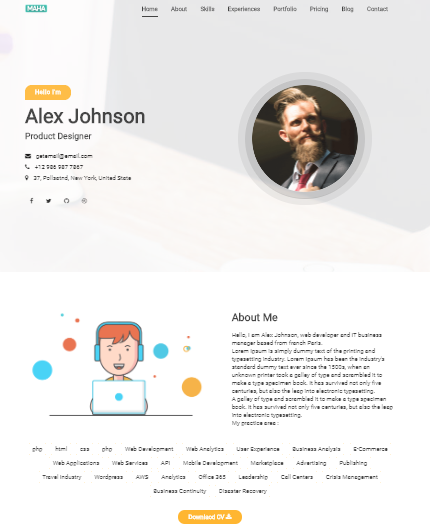
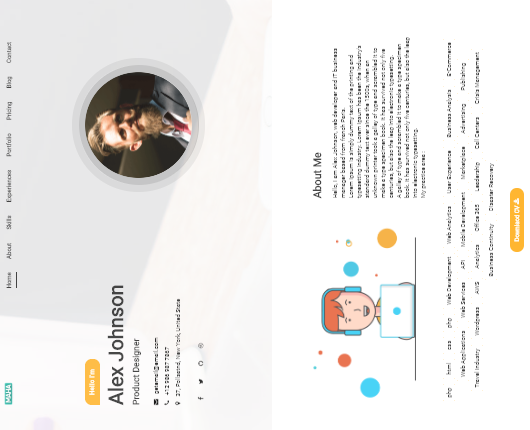
update

diff --git a/index.html b/index.html
@@ -1,40 +1,54 @@
 <!doctype html>
 <html lang="en">
     <head>
-        <title>Neha - Personal CV/Resume Template | Home 1 </title>
-        <!-- Required meta tags -->
-        <meta charset="utf-8">
-        <meta http-equiv="X-UA-Compatible" content="IE=edge">
-        <meta name="description" content="Maha Personal cv/resume template for professional and personal website." />
-        <meta name="keywords" content="creative, cv, designer,  online cv, online resume, powerful portfolio, professional, professional resume, responsive, resume, vcard " />
-        <meta name="developer" content="Md. Siful Islam">
-        <meta name="viewport" content="width=device-width, initial-scale=1, shrink-to-fit=no">
-        
-        <!-- FAV AND ICONS   -->
-        <link rel="shortcut icon" href="images/neha_logo">
-        <link rel="shortcut icon" href="images/neha_logo.png">
-        <link rel="shortcut icon" sizes="72x72" href="images/neha_logo.png">
-        <link rel="shortcut icon" sizes="114x114" href="images/neha_logo.png">
-        
-        <!-- Google Font-->
-        <link href="//fonts.googleapis.com/css?family=Roboto" rel="stylesheet">
-        <!-- Font Awesome -->
-        <link rel="stylesheet" href="assets/icons/font-awesome-4.7.0/css/font-awesome.min.css">
-        <!-- Bootstrap CSS -->
-        <link rel="stylesheet" href="assets/plugins/css/bootstrap.min.css">
-        <!-- Animate CSS-->
-        <link rel="stylesheet" href="assets/plugins/css/animate.css">
-        <!-- Owl Carousel CSS-->
-        <link rel="stylesheet" href="assets/plugins/css/owl.css">
-        <!-- Fancybox-->
-        <link rel="stylesheet" href="assets/plugins/css/jquery.fancybox.min.css">
-        <!-- Custom CSS-->
-        <link rel="stylesheet" href="assets/css/styles.css">
-        <link rel="stylesheet" href="assets/css/responsive.css">
-        <link rel="stylesheet" href="assets/css/style.css">
-        
- 
-    </head>
+    <meta charset="UTF-8">
+    <meta name="viewport" content="width=device-width, initial-scale=1.0">
+
+    <title>Neha Marathe | Full Stack Developer Portfolio</title>
+
+    <meta name="description" content="Neha Marathe is a Full Stack Developer and Information Technology graduate specializing in responsive web development using HTML, CSS, JavaScript, Bootstrap, React, Node.js, Express.js and MongoDB.">    <meta name="keywords" content="Neha Marathe, Full Stack Developer, Web Developer, Frontend Developer, JavaScript Developer, React Developer, Node.js Developer, Portfolio">
+    <meta name="author" content="Neha Marathe">
+    <meta name="robots" content="index, follow">
+
+    <link rel="canonical" href="https://marathenehaa.github.io/my_portfolio/">
+    <link rel="icon" type="image/png" href="images/neha_logo - Copy.png">
+
+    <!-- Open Graph -->
+    <meta property="og:title" content="Neha Marathe | Full Stack Developer">
+    <meta property="og:description" content="Portfolio of Neha Marathe, an aspiring Full Stack Developer specializing in modern and responsive web applications.">
+    <meta property="og:type" content="website">
+    <meta property="og:url" content="https://marathenehaa.github.io/my_portfolio/">
+    <meta property="og:image" content="https://marathenehaa.github.io/my_portfolio/images/neha_logo%20-%20Copy.png">
+
+    <!-- Twitter -->
+    <meta name="twitter:card" content="summary">
+    <meta name="twitter:title" content="Neha Marathe | Full Stack Developer">
+    <meta name="twitter:description" content="Portfolio of Neha Marathe, an aspiring Full Stack Developer.">
+    <meta name="twitter:image" content="https://marathenehaa.github.io/my_portfolio/images/neha_logo%20-%20Copy.png">
+
+    <!-- Google Font -->
+    <link href="https://fonts.googleapis.com/css?family=Roboto" rel="stylesheet">
+
+    <!-- Font Awesome -->
+    <link rel="stylesheet" href="assets/icons/font-awesome-4.7.0/css/font-awesome.min.css">
+
+    <!-- Bootstrap -->
+    <link rel="stylesheet" href="assets/plugins/css/bootstrap.min.css">
+
+    <!-- Animate -->
+    <link rel="stylesheet" href="assets/plugins/css/animate.css">
+
+    <!-- Owl Carousel -->
+    <link rel="stylesheet" href="assets/plugins/css/owl.css">
+
+    <!-- Fancybox -->
+    <link rel="stylesheet" href="assets/plugins/css/jquery.fancybox.min.css">
+
+    <!-- Custom CSS -->
+    <link rel="stylesheet" href="assets/css/styles.css">
+    <link rel="stylesheet" href="assets/css/responsive.css">
+    <link rel="stylesheet" href="assets/css/style.css">
+</head>
     
     <body class="white-vertion black-bg">
         <!-- Start Loader -->
@@ -57,7 +71,7 @@
                 <div class="row">
                     <nav class="navbar navbar-expand-lg mh-nav nav-btn">
                         <a class="navbar-brand" href="#">
-                            <img src="images/neha_logo.png" alt="" class="img-fluid" width="70%">
+                            <img src="images/neha_logo.png" alt="Neha Marathe Full Stack Developer Logo" class="img-fluid" width="70%">
                             <!-- <h2>Maha</h2> -->
                         </a>
                         <button class="navbar-toggler" type="button" data-toggle="collapse" data-target="#navbarSupportedContent" aria-controls="navbarSupportedContent" aria-expanded="false" aria-label="Toggle navigation">
@@ -110,7 +124,7 @@
                             <span class="classy-home-label">
                                 <i class="fa fa-circle"></i> AVAILABLE FOR OPPORTUNITIES
                             </span>
-                            <h1>Hi, I'm <span>Neha Marathe</span></h1>
+                            <h2>Hi, I'm <span>Neha Marathe</span></h2>
                             <h2>Full Stack Developer</h2>
                             <p>I build responsive, interactive and user-friendly web applications by combining clean design with modern web technologies.</p>
                             <div class="classy-home-buttons">
@@ -132,8 +146,7 @@
                         <div class="classy-home-image wow fadeInRight" data-wow-duration="0.8s" data-wow-delay="0.2s">
                             <div class="classy-image-frame"></div>
                             <div class="classy-image">
-                                <img src="images/neha_photo - Copy.jpg" alt="Neha Marathe">
-                            </div>
+                                <img src="images/neha_photo - Copy.jpg" alt="Neha Marathe Full Stack Developer">                            </div>
                             <div class="classy-image-tag">
                                 <i class="fa fa-code"></i>
                                 <span>Building with code</span>
@@ -166,7 +179,7 @@
                             <div class="about-outline"></div>
 
                             <div class="about-icon">
-                                <img src="images/neha_photo.jpg" alt="Neha Marathe">
+                                <img src="images/neha_photo.jpg" alt="Neha Marathe - Full Stack Developer">
                             </div>
 
                             <div class="about-code">
@@ -1323,7 +1336,7 @@
                 </div>
 
                 <div class="modal-buttons">
-                    <a href="YOUR_PORTFOLIO_LINK" target="_blank" class="modal-live-btn">
+                    <a href="https://marathenehaa.github.io/my_portfolio/" target="_blank" rel="noopener" class="modal-live-btn">
                         <i class="fa fa-external-link"></i> Live Website
                     </a>
                     <button class="portfolio-modal-close modal-close-btn">
@@ -2091,17 +2104,10 @@
                             <div class="row">
                                 <div class="col-sm-6">
                                     <div class="text-left text-xs-center">
-                                        <p>All right reserved Siful Islam @ 2018</p>
+                                        <p>All right reserved @ 2026</p>
                                     </div>
                                 </div>
-                                <div class="col-sm-6">
-                                    <ul class="social-icon">
-                                        <li><a href=""><i class="fa fa-facebook"></i></a></li>
-                                        <li><a href=""><i class="fa fa-twitter"></i></a></li>
-                                        <li><a href=""><i class="fa fa-github"></i></a></li>
-                                        <li><a href=""><i class="fa fa-dribbble"></i></a></li>
-                                    </ul>
-                                </div>
+                                
                             </div>
                         </div>
                     </div>
